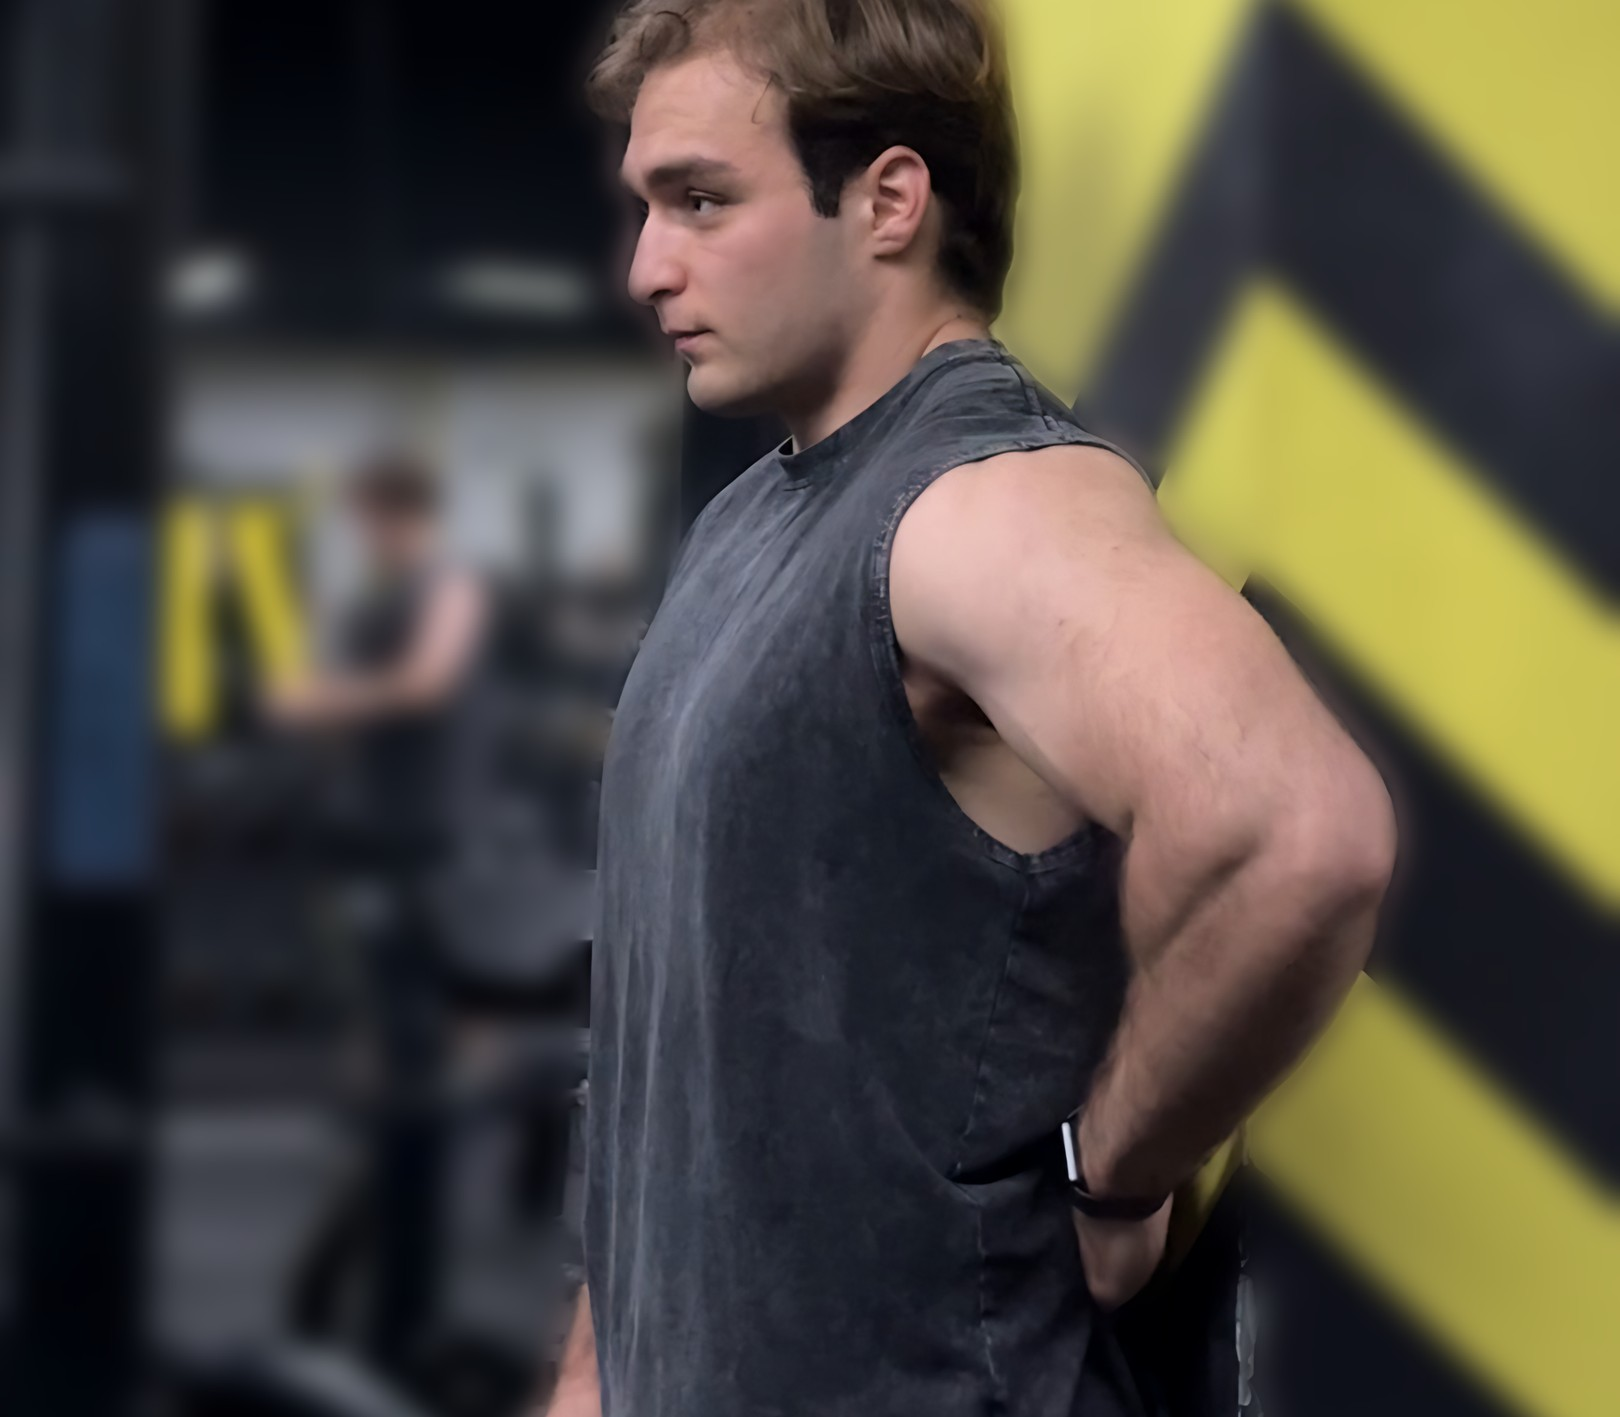
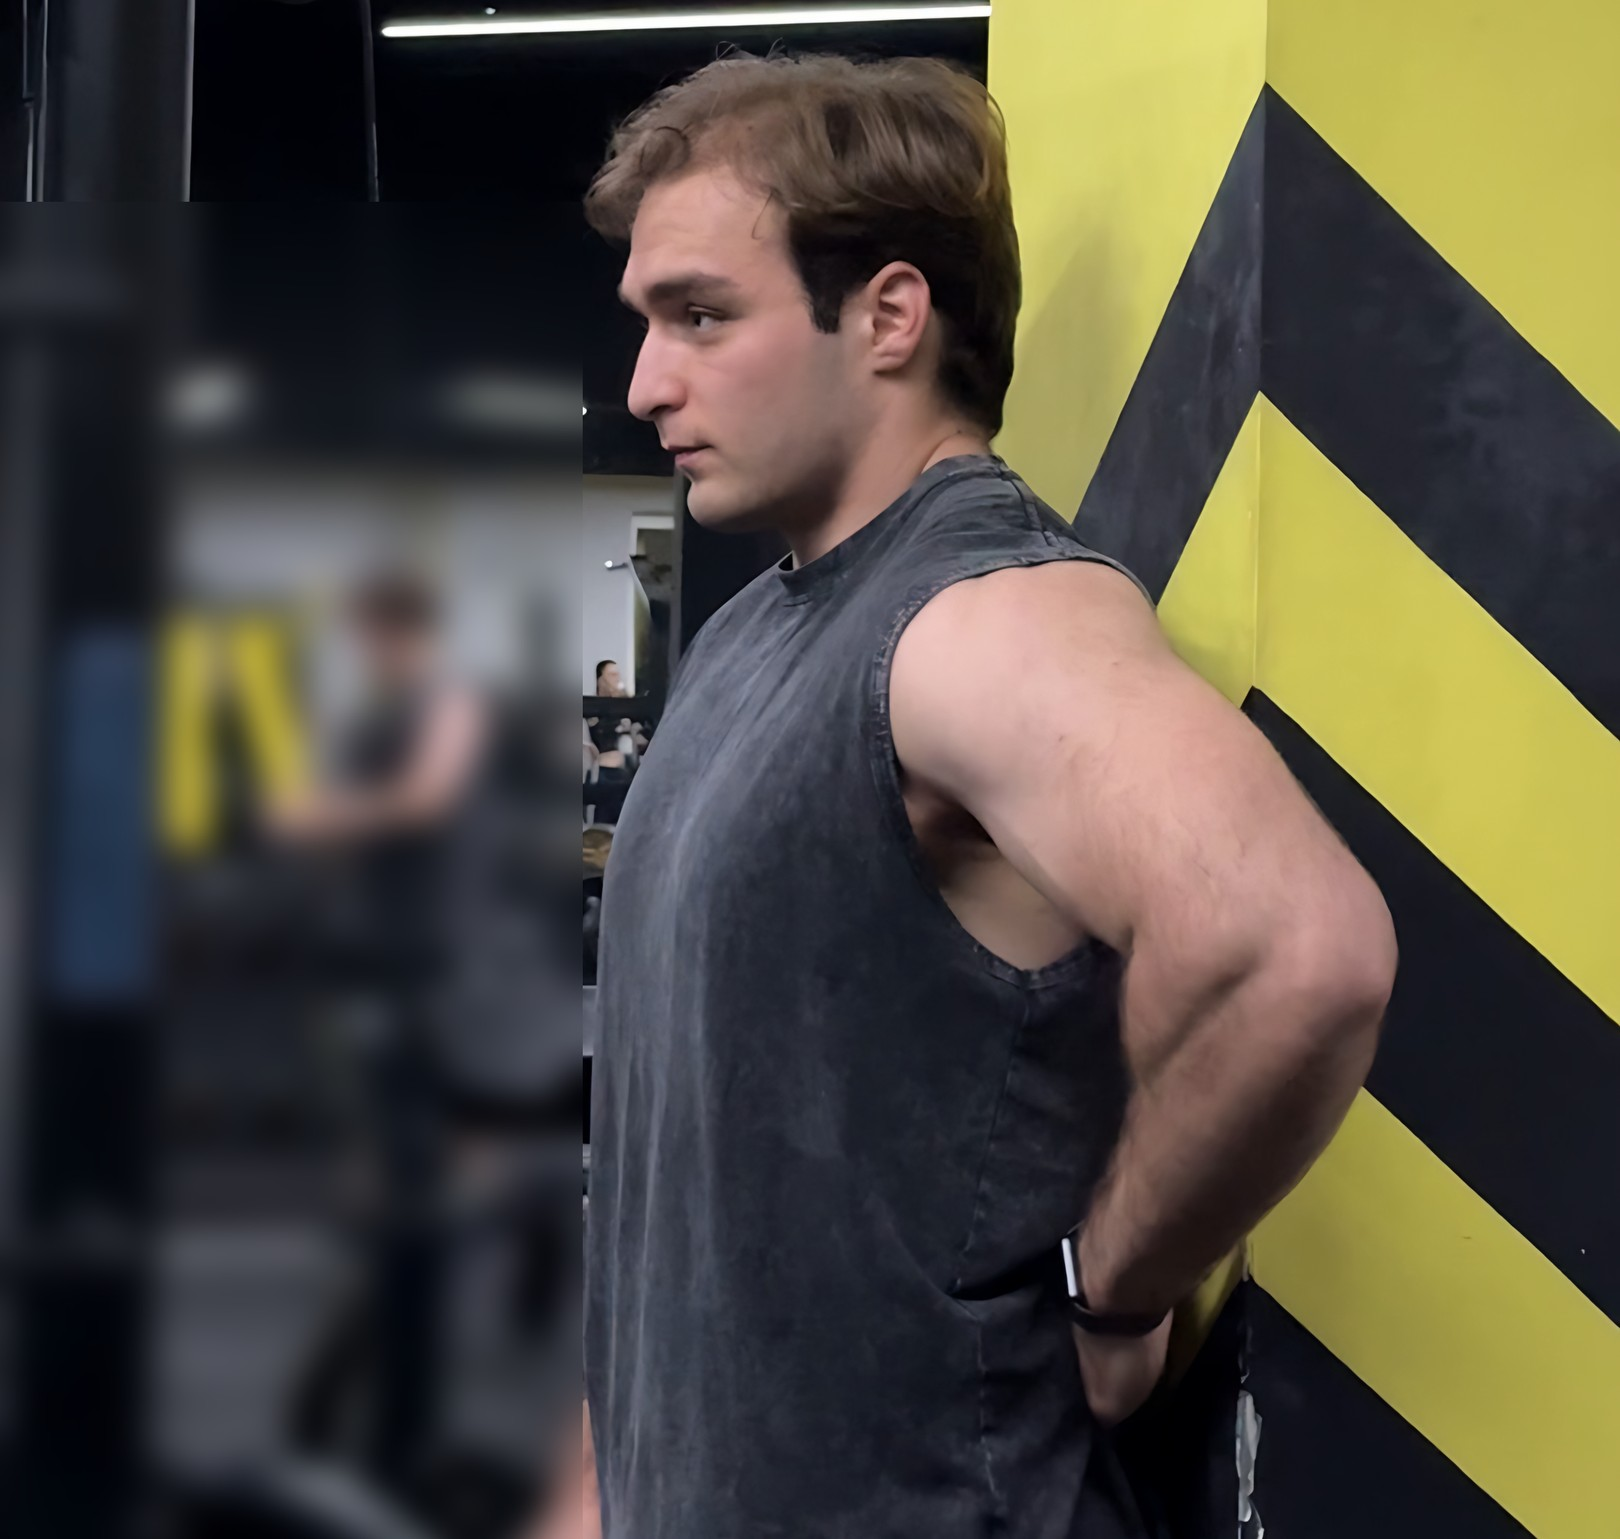
c8: правки visual-qa (стена резкая, выноски мышц, без мелких подписей позвонков, Medina McKeon 2009)
Claude-Session: https://claude.ai/code/session_014b6iEBjPGyacsH4fnBbVwQ

diff --git a/content/carousels/build_c8.py b/content/carousels/build_c8.py
@@ -31,15 +31,24 @@ def schematics():
     import pelvis as Pv
     out = {}
     for th in (20, 7, -6):
-        L = Layer(); Pv.draw_skeleton(L, th, 1.0, 1.0, labels=True); Pv.body_outline(L, th, 1.0)
+        L = Layer(); Pv.draw_skeleton(L, th, 1.0, 1.0, labels=False); Pv.body_outline(L, th, 1.0)
         im = L.out(); bgim = Image.new('RGBA', im.size, (13, 27, 43, 255)); bgim.alpha_composite(im)
         out[th] = bgim.convert('RGB')
     return out
 
 
+def wall_prep():
+    """Тест у стены: колонна должна остаться резкой, размываем только людей слева от Микаела."""
+    im = Image.open(f'{SEL}/wall_7.3_sr.png').convert('RGB'); W, H = im.size
+    box = (0, int(H * 0.38), int(W * 0.36), int(H * 0.95))
+    im.paste(im.crop(box).filter(ImageFilter.GaussianBlur(24)), box[:2])
+    r = 1080 / 1026; ch = int(W / r); t = int(H * 0.31)
+    im.crop((0, t, W, t + ch)).resize((1620, int(1620 / r)), Image.LANCZOS).save(f'{SRC}/c8_wall.jpg', quality=90)
+
+
 def prep():
     portrait(f'{SEL}/side_2.5_sr.png', f'{SRC}/c8_cover.jpg', 0.5625, 0.0)
-    portrait(f'{SEL}/wall_7.3_sr.png', f'{SRC}/c8_wall.jpg', 1080 / 945, 0.35)
+    wall_prep()
     portrait(f'{SEL}/calm_9.6_sr.png', f'{SRC}/c8_cta.jpg', 0.8, 0.244)
     sc = schematics()
     # нейтральный таз крупно: кадр 1080x837 из схемы 1080x1920, y 640-1477
@@ -62,7 +71,7 @@ def slides():
               f'<path d="M{cx - 105:.0f} {cy - 60:.0f} L{cx + 105:.0f} {cy - 60:.0f} L{cx + 78:.0f} {cy + 62:.0f} L{cx - 78:.0f} {cy + 62:.0f} Z" fill="{A}" fill-opacity=".18" stroke="{A}" stroke-width="8" stroke-linejoin="round"/>'
               f'<path d="M{cx - 105:.0f} {cy - 60:.0f} Q{cx:.0f} {cy - 112:.0f} {cx + 105:.0f} {cy - 60:.0f}" fill="none" stroke="{A}" stroke-width="6" stroke-dasharray="14 10"/></g>')
     drops = ''.join(f'<path d="M{x:.0f} {y:.0f} q-9 16 0 24 q9 -8 0 -24z" fill="{BLUE}" {b.SH}/>' for x, y in ((cx - 130, cy - 10), (cx - 150, cy + 30), (cx - 128, cy + 66)))
-    cover = svg(*b1, bucket, drops, pill(560, 150, 'передний наклон таза', A, BG, 30), pill(560, 210, 'схема', BG, SOFT, 26))
+    cover = svg(*b1, bucket, drops, pill(560, 150, 'передний наклон таза', A, BG, 30), pill(560, 210, 'схема', BG, SOFT, 30))
     # 2. ориентиры на нейтральном тазу (блок 1080x837, схема y 640-1477)
     b2 = (W, 837)
     s = lambda x, y: (x, (y - 640))
@@ -85,28 +94,28 @@ def slides():
     nm += [dot(sx(9.6), 360, 16, A, BG), dot(sx(11.7), 360, 16, SOFT, BG),
            pill(sx(9.6) - 20, 420, 'мужчины 9,6', A, BG, 32, 'end'), pill(sx(11.7) + 20, 420, 'женщины 11,7', SOFT, BG, 32),
            b.panel(70, 500, 455, 175), text(100, 555, 'передний наклон', 32, TXT, 800), text(100, 603, '85% мужчин', 34, A, 800), text(100, 650, '75% женщин', 34, A, 800),
-           b.panel(555, 500, 455, 175), text(585, 555, 'задний наклон', 32, TXT, 800), text(585, 603, '6-7%', 34, A, 800), text(585, 650, 'Herrington 2011', 28, MUTED, 700)]
+           b.panel(555, 500, 455, 175), text(585, 555, 'задний наклон', 32, TXT, 800), text(585, 603, '6-7%', 34, A, 800), text(585, 650, 'Herrington 2011', 30, MUTED, 800)]
     norm = svg(W, 1350, *nm)
     # 4. три таза (блок 1080x864, картинка 1620x1296: панели y 230-950 в пикселях картинки)
     k = 1080 / 1620
     tri = [pill((i * 540 + 270) * k, 975 * k, n, A if i != 1 else SOFT, BG, 32, 'middle') for i, n in enumerate(('передний', 'нейтральный', 'задний'))]
     three = svg(W, 864, topfade(W, 200), *tri)
     # 5. тест у стены
-    b5 = (W, 945)
-    wall = svg(*b5, topfade(W), arrow(*P(30, 70, *b5), *P(63, 84, *b5), A, 8, 30), pill(*P(3, 61, *b5), 'ладонь в просвете', A, BG, 32),
+    b5 = (W, 1026)
+    wall = svg(*b5, topfade(W), arrow(*P(31, 71, *b5), *P(70.5, 83.5, *b5), A, 8, 30), pill(*P(3, 63, *b5), 'ладонь в просвете', A, BG, 32),
                pill(*P(66, 26, *b5), 'пятки, ягодицы,', BG, TXT, 30), pill(*P(66, 34, *b5), 'лопатки у стены', BG, TXT, 30))
     # 6. пара сил при заднем наклоне (схема -6, кадр y 330-1680 в 1080x1350)
     f = lambda x, y: (x, y - 640)
     pub, isch, aiis, psis6 = f(466, 1285), f(643, 1364), f(455, 1127), f(767, 1047)
     fc = [line(*pub, pub[0] - 25, pub[1] - 380, RED, 12), arrow(pub[0] - 12, pub[1] - 170, pub[0] - 20, pub[1] - 300, RED, 9, 30),
-          line(*isch, isch[0] - 9, 760, RED, 12), arrow(isch[0] - 3, isch[1] - 10, isch[0] - 6, isch[1] + 80, RED, 9, 30),
+          line(*isch, 742, 768, RED, 12), arrow(isch[0] + 20, isch[1] + 4, isch[0] + 75, isch[1] + 28, RED, 9, 28),
           line(psis6[0] + 10, psis6[1] + 40, 705, 585, RED, 12),
           f'<path d="M600 150 Q450 420 640 680" fill="none" stroke="{BLUE}" stroke-width="10" stroke-dasharray="18 12" stroke-linecap="round" {b.SH}/>',
           line(psis6[0] - 15, psis6[1] - 40, 712, 40, BLUE, 10, '18 12'),
-          pill(pub[0] - 50, pub[1] - 300, 'прямая мышца живота', RED, TXT, 30, 'end'),
-          pill(1060, 640, 'двуглавая мышца бедра', RED, TXT, 30, 'end'),
-          pill(1060, 480, 'большая ягодичная', RED, TXT, 30, 'end'),
-          pill(430, 560, 'подвздошно-поясничная', BLUE, BG, 30, 'end'),
+          pill(pub[0] - 50, pub[1] - 250, 'прямая мышца живота', RED, TXT, 30, 'end'),
+          pill(1060, 600, 'двуглавая мышца бедра', RED, TXT, 30, 'end'), line(830, 650, 700, 748, RED, 4),
+          pill(1060, 470, 'большая ягодичная', RED, TXT, 30, 'end'), line(800, 518, 745, 545, RED, 4),
+          pill(430, 700, 'подвздошно-поясничная', BLUE, BG, 30, 'end'), line(430, 724, 628, 676, BLUE, 4),
           pill(1050, 200, 'выпрямляющая позвоночник', BLUE, BG, 30, 'end'),
           pill(40, 165, 'укорочены', RED, TXT, 30), pill(40, 230, 'ослаблены', BLUE, BG, 30), pill(40, 295, 'клиническая модель', BG, SOFT, 30)]
     force = svg(W, 891, topfade(W, 220), *fc)
@@ -125,9 +134,9 @@ def slides():
     # 8. добавлено по данным
     ad = [b.panel(60, 150, 960, 600), pill(100, 185, 'добавлено по данным', MUTED, BG, 30),
           text(100, 320, 'растяжка', 34, A, 800), text(100, 370, 'в программах до 8 недель растит', 32, TXT, 800),
-          text(100, 415, 'терпимость к растяжению, а не длину', 32, TXT, 800), text(100, 460, 'Weppler, Magnusson 2010', 28, MUTED, 700),
+          text(100, 415, 'терпимость к растяжению, а не длину', 32, TXT, 800), text(100, 462, 'Weppler, Magnusson 2010', 30, MUTED, 800),
           text(100, 560, 'сила мышц живота и длина', 34, A, 800), text(100, 610, 'сгибателей бедра объясняют угол', 32, TXT, 800), text(100, 655, 'таза слабо', 32, TXT, 800),
-          text(100, 700, 'Walker 1987, Youdas 1996', 28, MUTED, 700)]
+          text(100, 702, 'Walker 1987, Youdas 1996', 30, MUTED, 800)]
     added = svg(W, 1350, *ad)
     return [
         {'layout': 'photo-top', 'photoHeight': 66, 'big': True, 'photo': 'src/c8_cover.jpg', 'focus': '50% 50%', 'photo2': 'src/c8_cover_sch.jpg', 'focus2': '50% 45%',
@@ -135,17 +144,17 @@ def slides():
         {'layout': 'photo-top', 'photoHeight': 62, 'photo': 'src/c8_neutral.jpg', 'focus': '50% 50%',
          'title': 'Ориентиры: две подвздошные ости', 'body': 'Передняя верхняя подвздошная ость прощупывается спереди на крыле таза, задняя верхняя под ямочками над крестцом. Угол между линией от задней ости к передней и горизонталью и есть наклон таза.', 'marks': [lm]},
         {'layout': 'big-number', 'photo': 'src/bg_grid.jpg', 'focus': '50% 50%',
-         'title': 'Лёгкий передний наклон это норма', 'body': 'Молодые люди без боли. Средний угол: 9,6 градуса у мужчин, 11,7 у женщин (McKeon, 2009). Нейтраль по форме кости у всех разная (Preece, 2008), поэтому сравнивай себя с собой.', 'marks': [norm]},
+         'title': 'Лёгкий передний наклон это норма', 'body': 'Молодые люди без боли. Средний угол: 9,6 градуса у мужчин, 11,7 у женщин (Medina McKeon, Hertel, 2009). Нейтраль по форме кости у всех разная (Preece, 2008), поэтому сравнивай себя с собой.', 'marks': [norm]},
         {'layout': 'photo-top', 'photoHeight': 64, 'photo': 'src/c8_three.jpg', 'focus': '50% 50%',
          'title': 'Сбоку: лордоз, живот, ягодицы', 'body': 'Передний наклон часто сочетается с усиленным поясничным лордозом: выступающий живот, ягодичная область отведена назад. Задний: лордоз сглажен, поясница плоская, ягодичная область уплощена.', 'marks': [three]},
-        {'layout': 'photo-top', 'photoHeight': 70, 'photo': 'src/c8_wall.jpg', 'focus': '50% 50%',
-         'title': 'Самотест у стены: лордоз', 'body': 'Пятки, ягодичная область и лопатки у стены. Больше ладони под поясницей: лордоз усилен. Ладонь не проходит: лордоз сглажен. Сравнивай себя с собой по фото в одних условиях.', 'marks': [wall]},
+        {'layout': 'photo-top', 'photoHeight': 76, 'photo': 'src/c8_wall.jpg', 'focus': '50% 50%',
+         'title': 'Самотест у стены: лордоз', 'body': 'Больше ладони под поясницей: лордоз усилен. Ладонь не проходит: лордоз сглажен.', 'marks': [wall]},
         {'layout': 'photo-top', 'photoHeight': 66, 'photo': 'src/c8_force.jpg', 'focus': '50% 50%',
          'title': 'Задний наклон: у кого и почему', 'body': 'По моей практике чаще у активных: бег, прыжки, игровые виды, спорт с детства. Клиническая модель: укороченные мышцы тянут лобок вверх, а седалищный бугор вниз.', 'marks': [force]},
         {'layout': 'big-number', 'photo': 'src/bg_grid.jpg', 'focus': '50% 50%',
          'title': 'Мой протокол при заднем наклоне', 'body': 'Укрепляю ослабленные, растягиваю укороченные.', 'marks': [proto]},
         {'layout': 'big-number', 'photo': 'src/bg_grid.jpg', 'focus': '50% 50%',
-         'title': 'Поэтому цель не "растянуть"', 'body': 'Цель протокола: сила, подвижность и контроль таза в движении.', 'marks': [added]},
+         'title': 'Что добавляют данные', 'body': 'Протокол это не отменяет: он работает на силу, подвижность и контроль таза в движении.', 'marks': [added]},
         {'layout': 'cta-photo', 'photo': 'src/c8_cta.jpg', 'focus': '50% 50%',
          'title': 'Какой наклон у тебя?', 'body': 'Сделай тест у стены и напиши в комментариях: больше ладони, ладонь или меньше.'},
     ]

diff --git a/tools/posture_reel/pelvis.py b/tools/posture_reel/pelvis.py
@@ -102,7 +102,8 @@ def draw_skeleton(L, th, a=1.0, frac=1.0, labels=True):
         av = a * ph(frac, 0.5, 0.5)
         for i, (c, phi) in enumerate(g['verts']):
             draw_vertebra(L, c, phi, av, BONE, f'L{5 - i}' if labels else None)
-        text(L, (g['t12'][0] - 70, g['t12'][1] - 10), 'Th12', 24, BONE, av * 0.7, 'rm', 0)
+        if labels:
+            text(L, (g['t12'][0] - 70, g['t12'][1] - 10), 'Th12', 24, BONE, av * 0.7, 'rm', 0)
     return g
 
 
